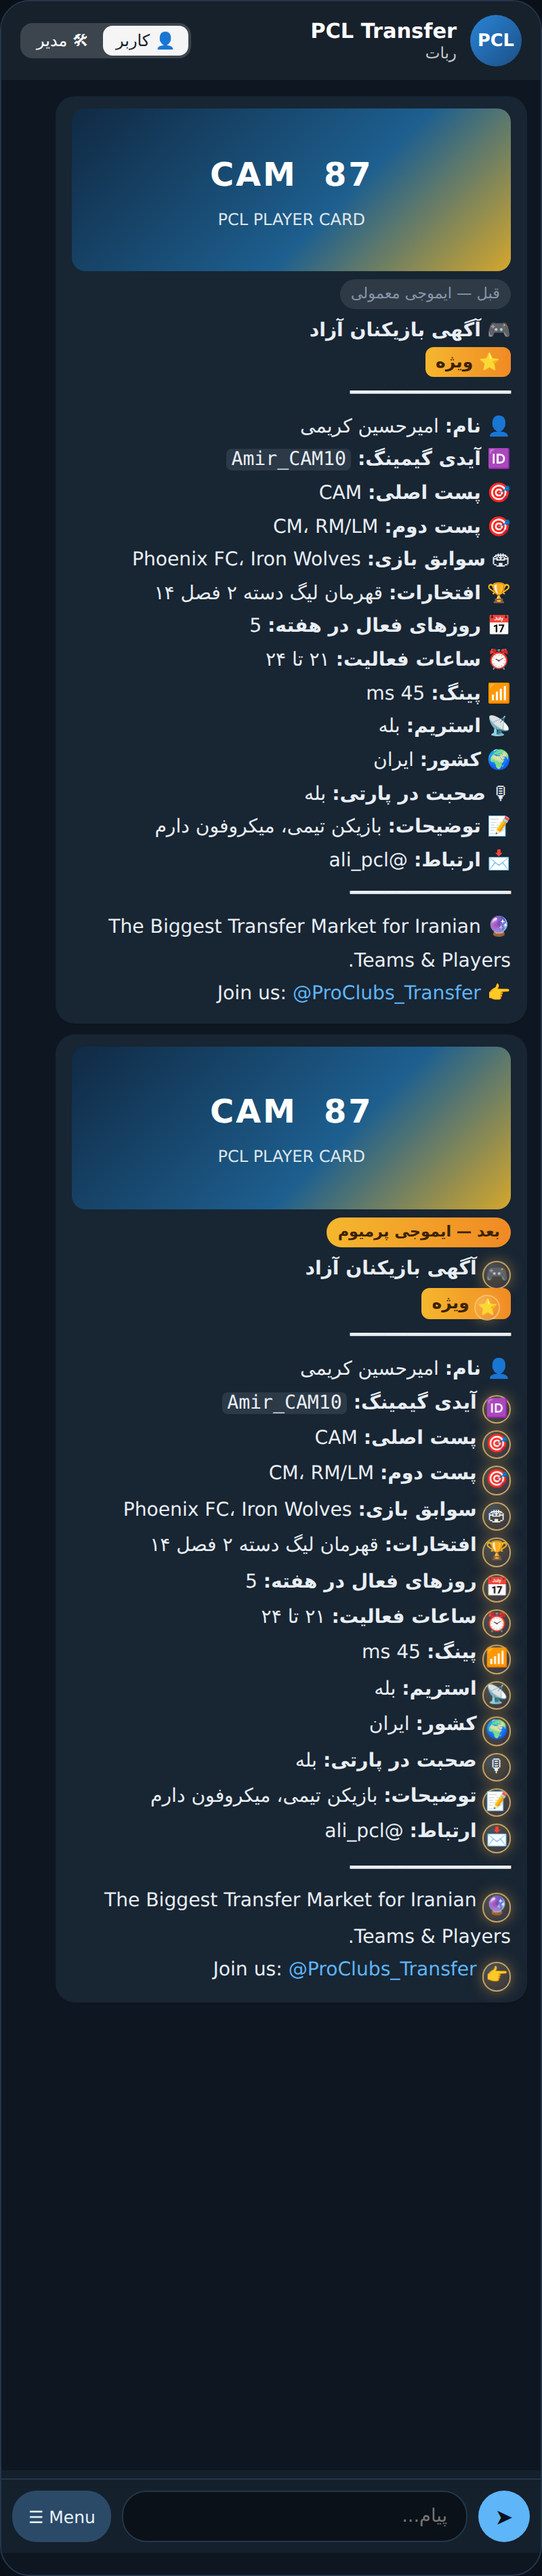
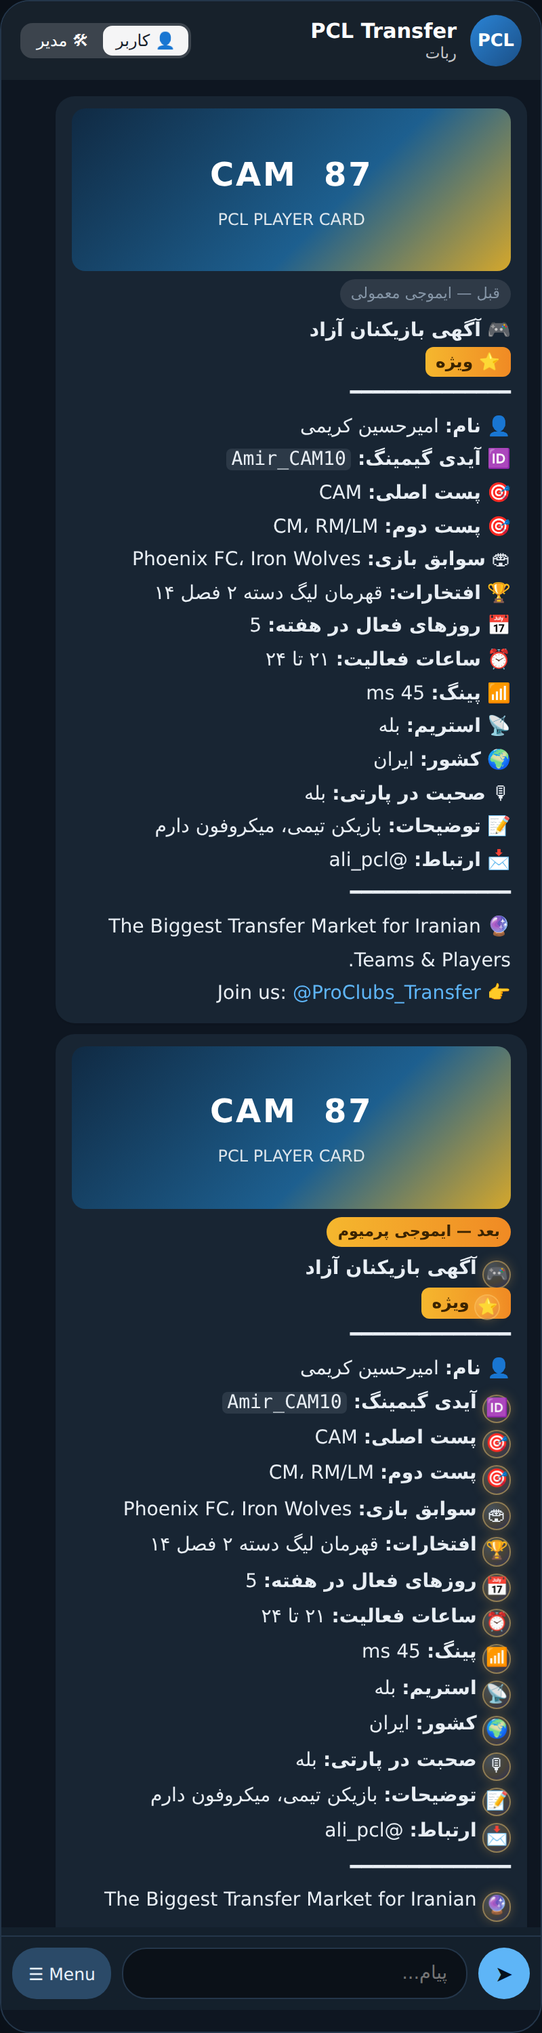
Demo: premium emoji management section in the admin panel
Claude-Session: https://claude.ai/code/session_01EM746abNYmdLe7nAFDnghT

diff --git a/demo/index.html b/demo/index.html
@@ -137,7 +137,7 @@ const SAMPLE={player:{name:'امیرحسین کریمی',psn:'Amir_CAM10',pos1:'
 const BADGES=[['🥉','برنزی',5],['🥈','نقرهای',15],['🥇','طلایی',30],['💎','الماسی',50],['👑','افسانهای',100]];
 const NAMES={price_normal:'تعرفه ثبت عادی',price_special:'تعرفه ثبت ویژه',renew_normal:'تعرفه تمدید عادی',renew_special:'تعرفه تمدید ویژه',upgrade_price:'تعرفه ارتقا به ویژه',days_normal:'اعتبار عادی (روز)',days_special:'اعتبار ویژه (روز)',referral_reward:'پاداش دعوت'};
 let S;
-function init(){S={channels:[{t:'ProClubs Transfer',l:'t.me/ProClubs_Transfer'}],admins:[{n:'شما',s:1},{n:'رضا محمدی (412556120)',s:0}],role:'user',tab:'bot',balance:30000,counted:4,nextId:3,expect:null,flow:null,group:'گروه نقلوانتقالات PCL',
+function init(){S={emoOn:true,emoIds:{},channels:[{t:'ProClubs Transfer',l:'t.me/ProClubs_Transfer'}],admins:[{n:'شما',s:1},{n:'رضا محمدی (412556120)',s:0}],role:'user',tab:'bot',balance:30000,counted:4,nextId:3,expect:null,flow:null,group:'گروه نقلوانتقالات PCL',
  cfg:{price_normal:20000,price_special:50000,renew_normal:15000,renew_special:40000,upgrade_price:30000,days_normal:7,days_special:14,referral_reward:10000},
  tx:[{amt:50000,t:'💳 افزایش موجودی'},{amt:-20000,t:'📝 ثبت آگهی'}],gifts:{PCL2026:{amt:20000,left:50}},used:[],invited:3,done:2,
  badges:BADGES.map(b=>[...b]),
@@ -166,9 +166,12 @@ function groupView(){
  const posts=S.ads.filter(a=>a.posted);
  el.innerHTML=`<div class="msg bot"><div class="bub">📌 ${esc(S.group)}\nآگهیهای تأییدشده اینجا بهصورت خودکار منتشر میشن.</div></div>`+(posts.length?posts.map(a=>`<div class="msg bot"><div class="bub">${a.d.photo||a.d.logo?cardHtml('card'):''}${adHtml(a)}</div></div>`).join(''):'<div class="msg bot"><div class="bub">هنوز آگهیای منتشر نشده. از نقش «مدیر» یک آگهی را تأیید کن.</div></div>');
 }
+const EMO=[['PLAYER','بازیکنان آزاد','🎮'],['TEAM','جذب بازیکن','🛡'],['SPECIAL','آگهی ویژه','⭐'],['GAMING_ID','آیدی گیمینگ','🆔'],['POSITION','پستها','🎯'],['HISTORY','سوابق بازی','🏟'],['HONORS','افتخارات','🏆'],['DAYS','روزهای فعال','📅'],['HOURS','ساعات فعالیت','⏰'],['PING','پینگ','📶'],['STREAM','استریم','📡'],['COUNTRY','کشور','🌍'],['PARTY','پارتی','🎙'],['NOTES','توضیحات','📝'],['CONTACT','ارتباط','📩'],['FOOTER_TOP','فوتر (خط ۱)','🔮'],['FOOTER_JOIN','فوتر (خط ۲)','👉'],['TEAM_NAME','نام تیم','🏷'],['COUNT','تعداد','🔢'],['TERMS','شرایط جذب','📋']];
+const emoId=ch=>{let h=0;for(const c of ch)h=(h*131+c.codePointAt(0))%900000000;return '5368'+String(324170000+h).padStart(9,'0')+'2286'};
+const noVS=x=>x.replace(/\uFE0F/g,'');
 const PE_SET=['🎮','🛡','🆔','🎯','🏟','🏆','📅','⏰','📶','📡','🌍','🎙','📝','📩','🔮','👉','🏷','📋','🔢','⭐'];
-function peify(h){return h.replace(new RegExp(PE_SET.map(x=>x.replace('','\\uFE0F?')).join('|'),'gu'),m=>`<span class="pe" title="Premium emoji (custom_emoji_id)">${m}</span>`)}
-function adHtml(a,prev,force){const h=adHtmlBase(a,prev);return (force===undefined?S.pe:force)?peify(h):h}
+function peify(h,only){return h.replace(new RegExp(PE_SET.map(x=>x.replace('','\\uFE0F?')).join('|'),'gu'),m=>only&&!only.has(noVS(m))?m:`<span class="pe" title="Premium emoji (custom_emoji_id)">${m}</span>`)}
+function adHtml(a,prev,force){const h=adHtmlBase(a,prev);if(force===true)return peify(h);if(force===false)return h;if(!S.emoOn)return h;const only=new Set(EMO.filter(x=>S.emoIds[x[0]]).map(x=>noVS(x[2])));return only.size?peify(h,only):h}
 function adHtmlBase(a,prev){
  const d=a.d,st=a.special?`<span class="star">⭐ ویژه</span>\n`:'';
  if(a.kind==='player')return `🎮 <b>آگهی بازیکنان آزاد</b>\n${st}${L}\n👤 <b>نام:</b> ${esc(d.name)}\n🆔 <b>آیدی گیمینگ:</b> <code>${esc(d.psn)}</code>\n🎯 <b>پست اصلی:</b> ${esc(d.pos1)}\n🎯 <b>پست دوم:</b> ${esc(d.pos2)}\n🏟 <b>سوابق بازی:</b> ${esc(d.history)}\n🏆 <b>افتخارات:</b> ${esc(d.honors)}\n${d.days?`📅 <b>روزهای فعال در هفته:</b> ${esc(d.days)}\n`:''}⏰ <b>ساعات فعالیت:</b> ${esc(d.hours)}\n${d.ping?`📶 <b>پینگ:</b> ${esc(d.ping)} ms\n`:''}${d.stream?`📡 <b>استریم:</b> ${esc(d.stream)}\n`:''}${d.country?`🌍 <b>کشور:</b> ${esc(d.country)}\n`:''}${d.party?`🎙 <b>صحبت در پارتی:</b> ${esc(d.party)}\n`:''}${d.notes?`📝 <b>توضیحات:</b> ${esc(d.notes)}\n`:''}📩 <b>ارتباط:</b> @ali_pcl\n${L}\n🔮 The Biggest Transfer Market for Iranian Teams &amp; Players.\n👉 Join us: <span class="tag">@ProClubs_Transfer</span>`;
@@ -233,7 +236,7 @@ function act(a){
  up(){screen(`⭐ ارتقای آگهی #${p[1]} به ویژه\n💰 هزینه: <b>${fmt(S.cfg.upgrade_price)}</b>\nآگهی با نشان ویژه منتشر میشه.`,[['✅ پرداخت از کیف پول','upok:'+p[1]],BK('v:'+p[1])[0]].map(b=>[b]))},
  upok(){const a=S.ads.find(x=>x.id==p[1]);if(S.balance<S.cfg.upgrade_price)return screen('💰 موجودی کافی نیست.',[['💳 افزایش موجودی','wallet'],BK('v:'+a.id)[0]].map(b=>[b]));S.balance-=S.cfg.upgrade_price;S.tx.push({amt:-S.cfg.upgrade_price,t:'⭐ ارتقا به ویژه'});a.special=1;screen('⭐ آگهی به حالت ویژه ارتقا پیدا کرد.',[BK('v:'+a.id)])},
  // ----- admin -----
- adm(){screen('🛠 <b>پنل مدیریت</b>',[['📊 آمار','adm:stats'],['👥 کاربران','adm:users'],['📋 آگهیها','adm:ads'],['💵 تراکنشها','adm:tx'],['⚙ تعرفه و تنظیمات','adm:set'],['🎁 کارتهای هدیه','adm:gifts'],['🏅 نشانها','adm:badges'],['📡 گروه انتشار','adm:pub'],['📣 پیام همگانی','adm:bc'],['🆔 گرفتن ID ایموجی','adm:eid'],['📢 جوین اجباری','adm:ch'],['👮 مدیران','adm:admins'],['🔙 منوی اصلی','menu']].reduce((r,b,i,arr)=>{if(i%2===0)r.push(arr.slice(i,i+2));return r},[]))}};
+ adm(){screen('🛠 <b>پنل مدیریت</b>',[['📊 آمار','adm:stats'],['👥 کاربران','adm:users'],['📋 آگهیها','adm:ads'],['💵 تراکنشها','adm:tx'],['⚙ تعرفه و تنظیمات','adm:set'],['🎁 کارتهای هدیه','adm:gifts'],['🏅 نشانها','adm:badges'],['📡 گروه انتشار','adm:pub'],['📣 پیام همگانی','adm:bc'],['✨ ایموجیها','adm:emo'],['📢 جوین اجباری','adm:ch'],['👮 مدیران','adm:admins'],['🔙 منوی اصلی','menu']].reduce((r,b,i,arr)=>{if(i%2===0)r.push(arr.slice(i,i+2));return r},[]))}};
  (A[p[0]]||(()=>{}))();
 }
 function curKey(){return FIELDS[S.flow.kind][S.flow.idx][0]}
@@ -294,6 +297,17 @@ act=function(a){const p=a.split(':');if(p[0]!=='adm'||!p[1])return orig(a);S.exp
  case'admins':screen('👮 <b>مدیران ربات</b>\n'+L+'\n'+S.admins.map(a=>(a.s?'🔒 ':'👤 ')+a.n+(a.s?' — مدیر اصلی':'')).join('\n')+'\n\n🔒 مدیران اصلی از فایل تنظیمات خوانده میشن و از اینجا حذف نمیشن.',[[['➕ افزودن مدیر','adm:aadd']],...pairs(S.admins.map((a,i)=>a.s?null:['🗑 '+a.n,'adm:arm:'+i]).filter(Boolean)),B]);break;
  case'aadd':S.expect={hint:'آیدی عددی یا @یوزرنیم',fn:t=>{S.admins.push({n:'مدیر جدید ('+esc(t.trim())+')',s:0});say('✅ به مدیران اضافه شد.',[BK('adm:admins')])}};screen('✍ آیدی عددی مدیر جدید رو بفرست.\n(یا @یوزرنیم، به شرطی که قبلاً ربات رو استارت کرده باشه)',[BK('adm:admins')]);paint();break;
  case'arm':S.admins.splice(+p[2],1);act('adm:admins');break;
+ case'emo':{const n=EMO.filter(x=>S.emoIds[x[0]]).length;
+  screen(`✨ <b>ایموجیهای پرمیوم</b>\n${L}\nوضعیت: ${S.emoOn?'🟢 روشن':'🔴 خاموش'}\nتنظیمشده: ${n} از ${EMO.length}\n\nروی هر مورد بزن و ایموجی پرمیوم رو بفرست. موردهای تنظیمنشده با ایموجی معمولی نمایش داده میشن و هر تغییری همین الان اعمال میشه.`,
+   [[[S.emoOn?'🔴 خاموش کردن':'🟢 روشن کردن','adm:emotoggle']],[['👁 پیشنمایش آگهی','adm:emopv'],['🔎 فقط گرفتن ID','adm:eid']],...pairs(EMO.map(x=>[(S.emoIds[x[0]]?'✅ ':'⬜ ')+x[2]+' '+x[1],'adm:emoslot:'+x[0]])),[['🧹 بازنشانی همه','adm:emoresetall']],B]);break}
+ case'emotoggle':S.emoOn=!S.emoOn;act('adm:emo');break;
+ case'emoresetall':S.emoIds={};act('adm:emo');break;
+ case'emoreset':delete S.emoIds[p[2]];act('adm:emo');break;
+ case'emopv':{const ad={kind:'player',special:1,d:{...SAMPLE.player}};say('👁 <b>پیشنمایش با تنظیم فعلی</b>\n'+adHtml(ad),[BK('adm:emo')],{card:'card'});break}
+ case'emoslot':{const x=EMO.find(e=>e[0]===p[2]),id=S.emoIds[x[0]];
+  S.expect={hint:'ایموجی پرمیوم یا استیکر ایموجی بفرست (در دمو: هر ایموجی)',fn:t=>{const m=t.match(/\p{Extended_Pictographic}\uFE0F?/u);if(!m){S.expect=null;return say('😕 ایموجی سفارشی پیدا نشد. یک ایموجی پرمیوم یا استیکر ایموجی بفرست.',[BK('adm:emoslot:'+x[0])])}
+   S.emoIds[x[0]]=emoId(m[0]);say(`✅ ایموجی «${x[1]}» ذخیره شد.\n<code>${S.emoIds[x[0]]}</code>\n\nپیامهای جدید همین الان با آن ارسال میشن.`,[[['➡ بقیه موردها','adm:emo']],[['👁 پیشنمایش','adm:emopv']]])}};
+  screen(`${x[2]} <b>${x[1]}</b>\nایموجی فعلی: ${id?'پرمیوم ✅ <code>'+id+'</code>':'معمولی ('+x[2]+')'}\n\n✍ ایموجی پرمیوم جدید رو بفرست (یا استیکر ایموجی).`,[...(id?[[['🧹 برگرداندن به معمولی','adm:emoreset:'+x[0]]]]:[]),BK('adm:emo')]);paint();break}
  case'eid':S.expect={hint:'در ربات واقعی: ایموجی پرمیوم یا استیکر ایموجی بفرست. در دمو: هر ایموجی بنویس',fn:t=>{
    const list=[...new Set(t.match(/\p{Extended_Pictographic}\uFE0F?/gu)||[])];
    if(!list.length){S.expect=null;return say('😕 ایموجی سفارشی (Custom Emoji) توی پیامت پیدا نشد. یک ایموجی پرمیوم یا استیکر ایموجی بفرست.',[BK('adm:eid')])}
@@ -313,12 +327,12 @@ const JUMPS=[
  ['کاربر','کیف پول',()=>act('wallet')],['کاربر','درگاه پرداخت',()=>{act('pay:100000');act('gate:100000')}],['کاربر','کارت هدیه',()=>{act('gift');handleText('PCL2026')}],
  ['کاربر','دعوت دوستان',()=>act('invite')],['کاربر','نشانهای افتخار',()=>act('badges')],['کاربر','مشخصات من',()=>act('profile')],['کاربر','ارتباط با ما',()=>act('support')],['کاربر','جوین اجباری',()=>screen('📢 برای استفاده از ربات اول در کانالهای زیر عضو شو، بعد روی «✅ عضو شدم» بزن:',[[['📢 ProClubs Transfer','menu']],[['✅ عضو شدم','menu']]])],
  ['مدیر','پنل مدیریت',()=>act('adm')],['مدیر','آگهیهای در انتظار',()=>{ensurePending();act('adm:al:pending')}],['مدیر','آمار',()=>act('adm:stats')],['مدیر','تعرفهها',()=>act('adm:set')],['مدیر','کارتهای هدیه',()=>act('adm:gifts')],['مدیر','نشانها',()=>act('adm:badges')],['مدیر','جوین اجباری',()=>act('adm:ch')],['مدیر','مدیران',()=>act('adm:admins')],
- ['ایموجی پرمیوم','قبل و بعد از تبدیل',()=>{S.pe=false;S.fresh=false;const ad={kind:'player',special:1,d:{...SAMPLE.player}};S.chats.user=[];say('<span class="tag2 before">قبل — ایموجی معمولی</span>\n'+adHtml(ad,null,false),null,{card:'card'});say('<span class="tag2 after">بعد — ایموجی پرمیوم</span>\n'+adHtml(ad,null,true),null,{card:'card'})},'user'],['ایموجی پرمیوم','ابزار گرفتن ID (مدیر)',()=>act('adm:eid'),'admin'],['ایموجی پرمیوم','آگهی تیم با ایموجی پرمیوم',()=>{S.pe=true;S.flow={kind:'team',special:1,vals:{...SAMPLE.team},idx:0,mode:'new'};S.chats.user=[];preview()},'user'],['گروه','گروه انتشار',()=>{ensurePending();S.ads.filter(a=>a.st==='pending').forEach(a=>{a.st='approved';a.posted=true});S.ads.forEach(a=>{if(a.st==='approved')a.posted=true});S.tab='group';paint()}]];
+ ['ایموجی پرمیوم','قبل و بعد از تبدیل',()=>{S.fresh=false;const ad={kind:'player',special:1,d:{...SAMPLE.player}};S.chats.user=[];say('<span class="tag2 before">قبل — ایموجی معمولی</span>\n'+adHtml(ad,null,false),null,{card:'card'});say('<span class="tag2 after">بعد — ایموجی پرمیوم</span>\n'+adHtml(ad,null,true),null,{card:'card'})},'user'],['ایموجی پرمیوم','بخش ایموجیها (مدیر)',()=>{['TEAM','HONORS','FOOTER_TOP','FOOTER_JOIN','SPECIAL'].forEach(k=>S.emoIds[k]=emoId(EMO.find(e=>e[0]===k)[2]));act('adm:emo')},'admin'],['ایموجی پرمیوم','ابزار گرفتن ID (مدیر)',()=>act('adm:eid'),'admin'],['ایموجی پرمیوم','آگهی تیم با ایموجی پرمیوم',()=>{EMO.forEach(x=>S.emoIds[x[0]]=emoId(x[2]));S.flow={kind:'team',special:1,vals:{...SAMPLE.team},idx:0,mode:'new'};S.chats.user=[];preview()},'user'],['گروه','گروه انتشار',()=>{ensurePending();S.ads.filter(a=>a.st==='pending').forEach(a=>{a.st='approved';a.posted=true});S.ads.forEach(a=>{if(a.st==='approved')a.posted=true});S.tab='group';paint()}]];
 function ensurePending(){if(!S.ads.some(a=>a.st==='pending')){const ad={id:S.nextId++,kind:'player',special:1,st:'pending',d:{...SAMPLE.player}};S.ads.push(ad);if(!S.chats.admin.length)S.chats.admin.push({from:'bot',html:'🛠 <b>پنل مدیریت</b>'})}}
 function buildChips(){const g={};JUMPS.forEach((j,i)=>(g[j[0]]=g[j[0]]||[]).push([i,j[1]]));$('#chips').innerHTML=Object.entries(g).map(([k,v])=>`<h3>${k==='کاربر'?'نقش کاربر':k==='مدیر'?'نقش مدیر':k==='گروه'?'گروه':'ایموجی پرمیوم (پیشنهاد)'}</h3><div class="chips">${v.map(([i,t])=>`<button data-j="${i}">${t}</button>`).join('')}</div>`).join('')}
 document.addEventListener('click',e=>{
  const b=e.target.closest('button[data-a]');if(b){act(b.dataset.a);return}
- const j=e.target.closest('#chips button');if(j){const J=JUMPS[+j.dataset.j];const role=J[3]||(J[0]==='مدیر'?'admin':'user');S.pe=false;setRole(role);J[2]();setChip(j.dataset.j);if(J[0]==='گروه'){$('#title').textContent=S.group;$('#sub').textContent='گروه'}}
+ const j=e.target.closest('#chips button');if(j){const J=JUMPS[+j.dataset.j];const role=J[3]||(J[0]==='مدیر'?'admin':'user');S.emoIds={};setRole(role);J[2]();setChip(j.dataset.j);if(J[0]==='گروه'){$('#title').textContent=S.group;$('#sub').textContent='گروه'}}
 });
 function openCmds(){const box=$('#cmds');const items=[['/start','🏠 شروع و منوی اصلی']];if(S.role==='admin')items.push(['/admin','🛠 پنل مدیریت']);
  box.innerHTML=items.map(i=>`<button type="button" data-cmd="${i[0]}"><code>${i[0]}</code><span>${i[1]}</span></button>`).join('');box.hidden=false;$('#menubtn').setAttribute('aria-expanded','true')}
